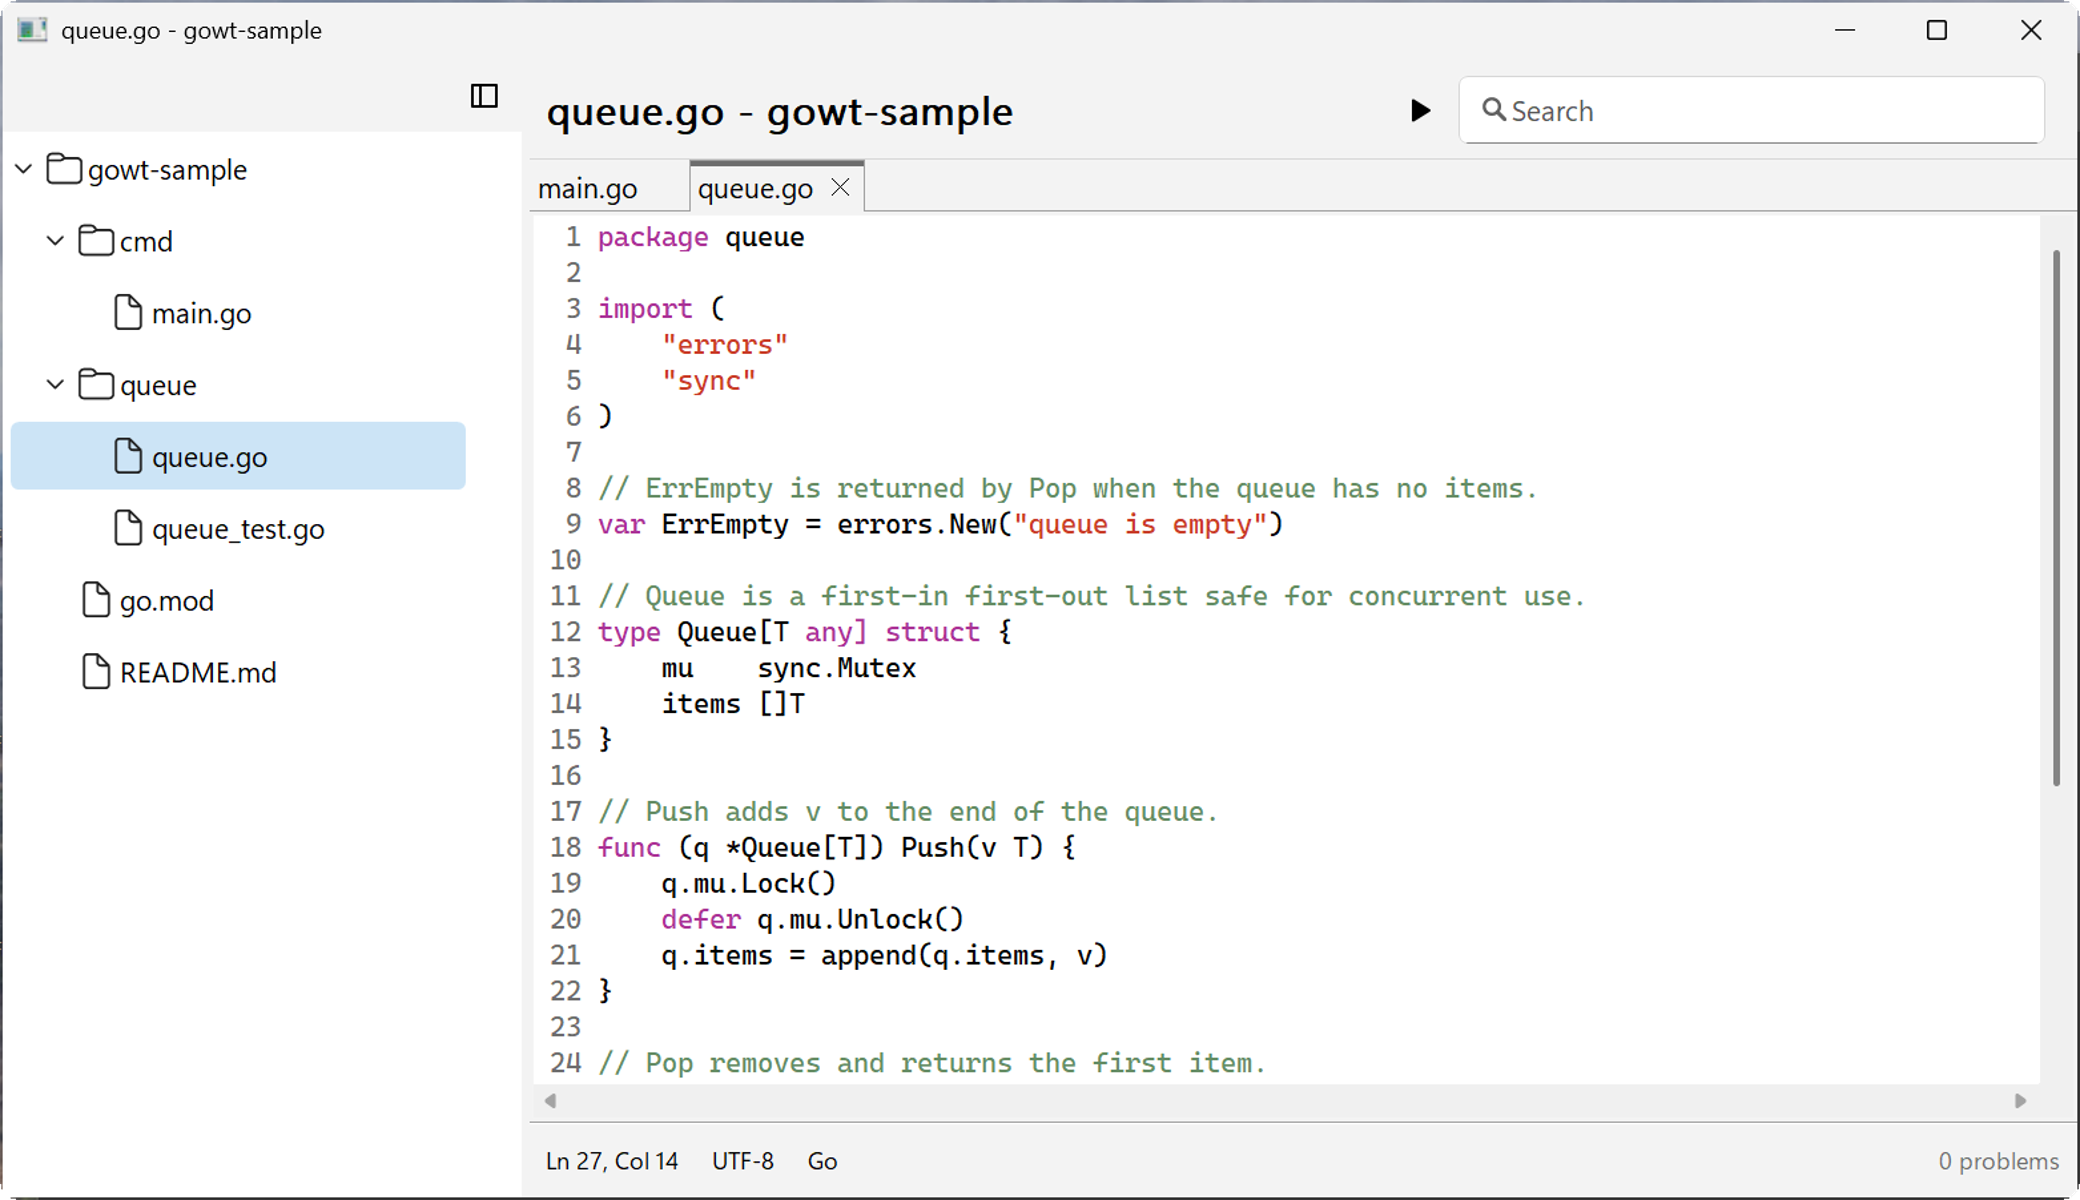
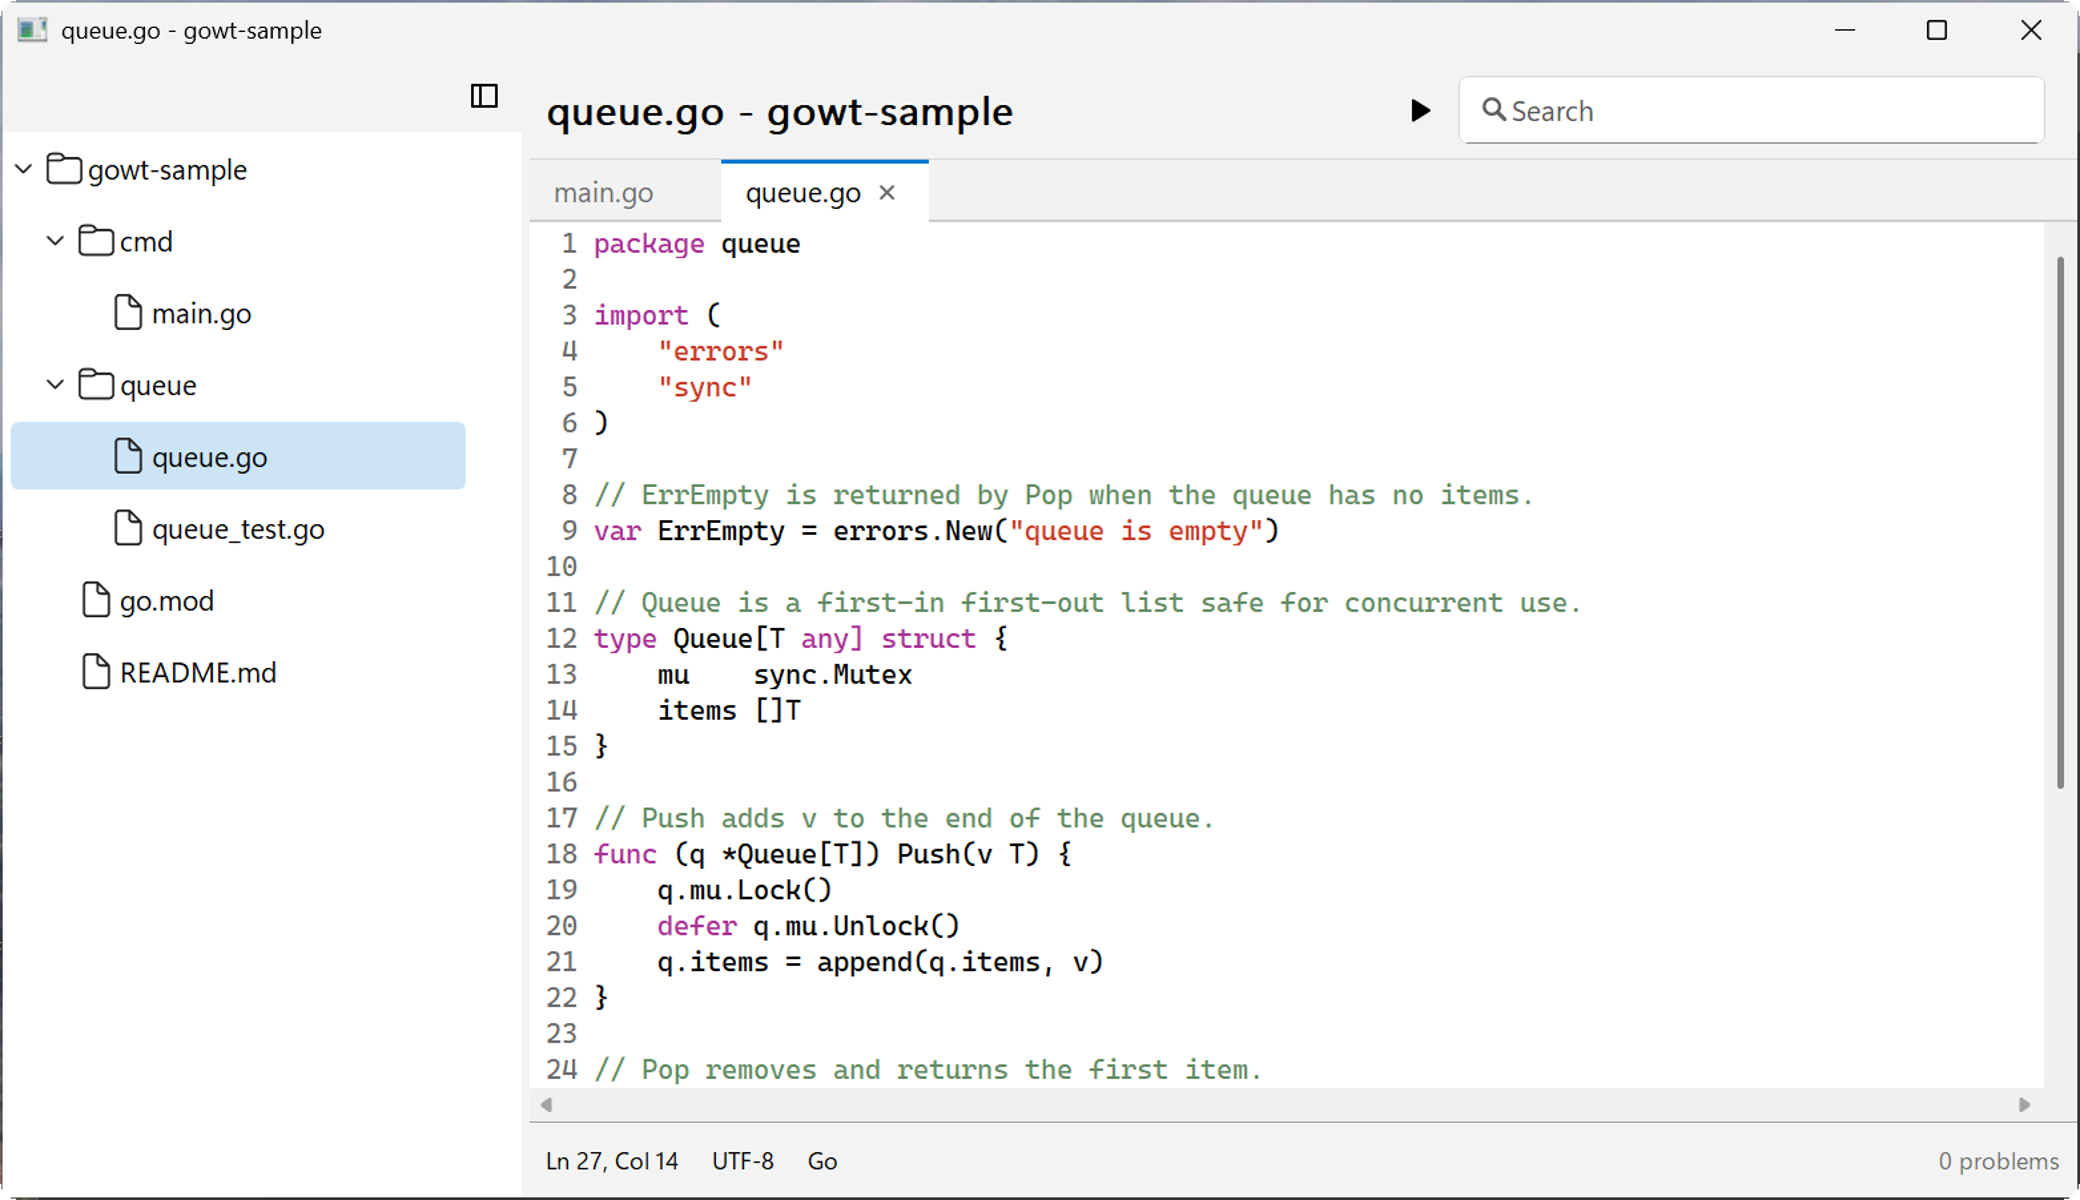
gowt: CTabs select the first tab, editor tabs take the editor background, new shots (windows, linux), test, changelog

Changed region(s): [[0.25, 0.1233, 1.0, 0.925], [0.9688, 0.2158, 1.0, 0.6475]]

diff --git a/widgets_container.go b/widgets_container.go
@@ -145,8 +145,14 @@ func CTabs(opts ...Option) Option {
 func (t *CTabsView) Add(tabs ...Option) { add(t, tabs) }
 
 func (t *CTabsView) into() *swt.Composite { return &t.f.Composite }
-func (t *CTabsView) added(Widget)         {}
-func (t *CTabsView) only() string         { return "Tab" }
+
+// added selects the first tab: SWT selects one only when the folder gets the focus.
+func (t *CTabsView) added(Widget) {
+	if t.f.GetSelectionIndex() < 0 {
+		t.f.SetSelectionIndex(0)
+	}
+}
+func (t *CTabsView) only() string { return "Tab" }
 
 // Index is the selected tab, -1 if none.
 func (t *CTabsView) Index() int { return int(t.f.GetSelectionIndex()) }

diff --git a/examples/apps/editor/main.go b/examples/apps/editor/main.go
@@ -108,7 +108,7 @@ func sidebarPane(app *gowt.App, ref **gowt.Panel) gowt.Option {
 
 func contentPane(ref **gowt.Panel) gowt.Option {
 	return gowt.VBox(gowt.Ref(ref), gowt.Padding(0), gowt.Gap(0),
-		gowt.CTabs(gowt.Grow(), gowt.Selected(1),
+		gowt.CTabs(gowt.Grow(), gowt.Selected(1), gowt.Background(gowt.Adaptive{Light: gowt.RGB{R: 255, G: 255, B: 255}, Dark: gowt.RGB{R: 30, G: 30, B: 30}}),
 			gowt.Tab("main.go", gowt.Closable()),
 			gowt.Tab("queue.go", gowt.Closable(), gowt.Padding(0), gowt.Gap(0),
 				gowt.StyledText(gowt.Scrollbars(), gowt.Grow(), gowt.LineNumbers(), gowt.Init(editor)))),

diff --git a/ctabs_render.go b/ctabs_render.go
@@ -258,7 +258,12 @@ func (r *tabRenderer) drawChevron(state int32, b *swt.Rectangle, gc *swt.GC) {
 // added before setup, has updated its dark flag by then.
 func redrawOnTheme(f *swt.CTabFolder) {
 	d := f.GetDisplay()
-	l := themeListener(func() { f.Redraw() })
+	l := &tabTheme{f}
 	d.AddListener(swt.Settings, l)
 	f.AddDisposeListener(disposeFunc(func() { d.RemoveListener(swt.Settings, l) }))
 }
+
+// tabTheme is a pointer so that Display.RemoveListener can compare it.
+type tabTheme struct{ f *swt.CTabFolder }
+
+func (t *tabTheme) HandleEvent(*swt.Event) { t.f.Redraw() }

diff --git a/CHANGELOG.md b/CHANGELOG.md
@@ -2,6 +2,10 @@
 
 ## Unreleased
 
+CTabs look
+- Changed: `CTabs` draws a modern document tab bar on every OS: a flat strip with a hairline in the system separator colour, the selected tab in the folder's background (so it joins the content) with a 2 px accent line, secondary text on the other tabs with a hover fill, the Type.Body font, the tab height from Spacing.ControlHeight, a round close button shown on the selected and the hovered tab, and an accent ring on the selected tab while the folder has the focus. Set the folder's `Background` to the editor's colour so that the tab joins it. A `CTabs` now selects its first tab when created; SWT did so only when the folder got the focus.
+- Changed: j2go has `dispatch.properties`: a class listed there dispatches through `impl` and exports its protected constructors, so Go code can subclass it. `swt.CTabFolderRenderer` is the first: embed it, `NewCTabFolderRenderer(folder)`, `SetImpl_(x)`, define `Draw_`, `ComputeSize_`, `ComputeTrim_`, `Dispose_`, then `CTabFolder.SetRenderer(x)`.
+
 API gaps found by examples/apps (TSK-13)
 - New: `Primary()` and `Destructive()` for a push `Button`. Primary is the window's default button (Enter) with the system's prominent look; Destructive marks a deleting action. macOS: the accent default button and `hasDestructiveAction` (not run on a Mac yet); GTK: `suggested-action` and `destructive-action`; Windows: the WinUI accent and critical fills with hover and pressed states, painted by gowt.
 - New: `GC.Size()`, the drawable size at paint time; a chart can follow its cell and font. `CanvasView.Size()` was already right and gives the same numbers.
